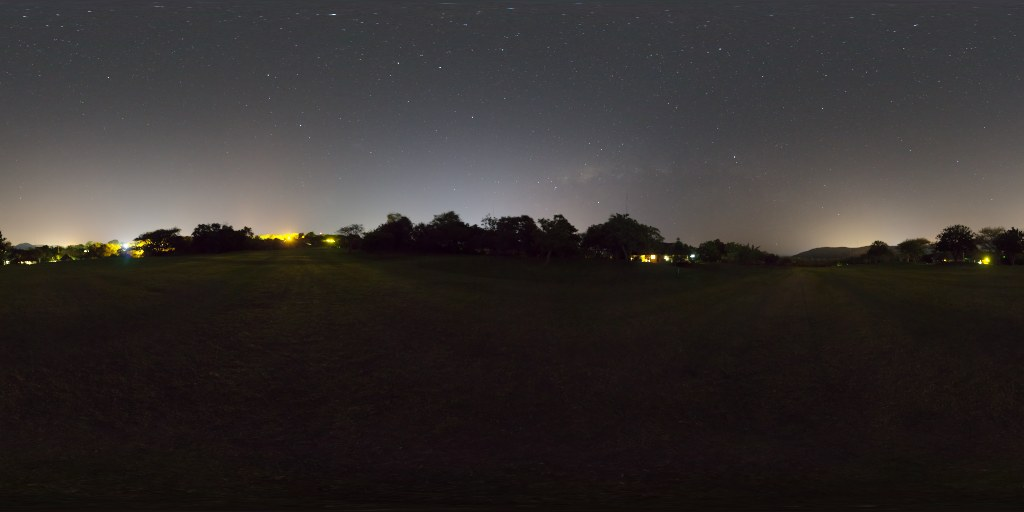
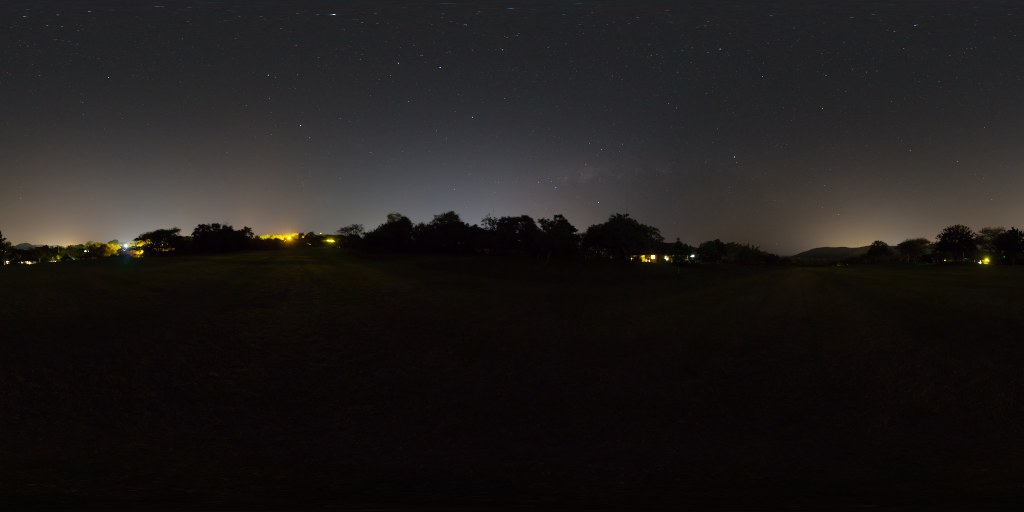
Real surroundings in every direction; view eases back on scroll after a drag
- business district around the HQ: glass office towers (lit windows at night), roads with lane markings, pavements, trees, street lamps, lawns; the photographic sky stays, the blurred ground is gone
- after a drag, scrolling turns the view back toward the planned direction gradually (~80% per stop scrolled), never snapping
- darker night sky

Claude-Session: https://claude.ai/code/session_01G3Y64rA4JQ17aTMdyHveiB

diff --git a/src/three/District.tsx b/src/three/District.tsx
@@ -1,0 +1,117 @@
+import React, { useEffect, useMemo } from 'react';
+import * as THREE from 'three';
+
+// The neighbourhood around the Oliskey HQ, so every direction a visitor looks shows something real instead of a blurred
+// background: a business district of glass office blocks (windows lit at night), roads with lane markings, pavements,
+// street lamps, trees and lawns. Built in code, lit by the same sky (environment map) as the rest of the scene.
+// Coordinates here are three.js (x right, y up, z = −Blender y). The HQ plaza covers x −45…45, z 0…48.
+
+type Mode = 'day' | 'night';
+const rnd = (() => { let s = 7; return () => ((s = (s * 16807) % 2147483647) / 2147483647); })();
+
+function facadeTexture(night: boolean) {
+  const c = document.createElement('canvas'); c.width = 256; c.height = 256;
+  const g = c.getContext('2d')!;
+  g.fillStyle = night ? '#1a2233' : '#c9d2dc'; g.fillRect(0, 0, 256, 256);          // mullions / spandrels
+  for (let y = 0; y < 4; y++) for (let x = 0; x < 4; x++) {
+    const lit = night && rnd() < 0.3;
+    g.fillStyle = night ? (lit ? (rnd() < 0.5 ? '#ffd9a0' : '#fff1d6') : '#0b1220') : (rnd() < 0.15 ? '#7f97b3' : '#93abc6');
+    g.fillRect(x * 64 + 5, y * 64 + 9, 54, 46);
+  }
+  const t = new THREE.CanvasTexture(c); t.colorSpace = THREE.SRGBColorSpace; t.wrapS = t.wrapT = THREE.RepeatWrapping; t.anisotropy = 4;
+  return t;
+}
+function roadTexture() {
+  const c = document.createElement('canvas'); c.width = 64; c.height = 256;
+  const g = c.getContext('2d')!;
+  g.fillStyle = '#3a3d42'; g.fillRect(0, 0, 64, 256);
+  for (let i = 0; i < 400; i++) { g.fillStyle = `rgba(255,255,255,${rnd() * 0.05})`; g.fillRect(rnd() * 64, rnd() * 256, 1.5, 1.5); }
+  g.fillStyle = '#e9e4cf'; g.fillRect(30, 0, 4, 128);                                    // dashed centre line
+  const t = new THREE.CanvasTexture(c); t.colorSpace = THREE.SRGBColorSpace; t.wrapS = t.wrapT = THREE.RepeatWrapping; t.anisotropy = 8;
+  return t;
+}
+
+const District: React.FC<{ mode: Mode; env: THREE.Texture | null; lite: boolean }> = ({ mode, env, lite }) => {
+  const night = mode === 'night';
+  const data = useMemo(() => {
+    // office blocks: a row across the front road, rows down both sides, a skyline behind
+    const blocks: { x: number; z: number; w: number; d: number; h: number }[] = [];
+    for (let x = -150; x <= 150; x += 26) blocks.push({ x: x + rnd() * 6, z: 92 + rnd() * 10, w: 16 + rnd() * 8, d: 18 + rnd() * 8, h: 14 + rnd() * 34 });
+    for (const side of [-1, 1]) for (let z = 50; z >= -150; z -= 28) blocks.push({ x: side * (92 + rnd() * 8), z: z + rnd() * 6, w: 18 + rnd() * 8, d: 18 + rnd() * 8, h: 12 + rnd() * 30 });
+    for (let x = -120; x <= 120; x += 30) blocks.push({ x: x + rnd() * 10, z: -200 - rnd() * 20, w: 20 + rnd() * 10, d: 20, h: 25 + rnd() * 40 });
+    const trees: [number, number, number][] = [];
+    for (let x = -140; x <= 140; x += 12) { trees.push([x + rnd() * 2, 66, 0.9 + rnd() * 0.4]); }
+    for (const side of [-1, 1]) for (let z = 40; z >= -140; z -= 12) trees.push([side * (70 + rnd() * 2), z, 0.9 + rnd() * 0.4]);
+    const lamps: [number, number][] = [];
+    for (let x = -140; x <= 140; x += 24) lamps.push([x, 73]);
+    for (const side of [-1, 1]) for (let z = 50; z >= -140; z -= 24) lamps.push([side * 76, z]);
+    return { blocks: lite ? blocks.filter((_, i) => i % 2 === 0) : blocks, trees: lite ? trees.filter((_, i) => i % 2 === 0) : trees, lamps };
+  }, [lite]);
+
+  const mats = useMemo(() => {
+    const facade = facadeTexture(night);
+    const road = roadTexture();
+    return {
+      facade,
+      building: new THREE.MeshStandardMaterial({ map: facade, color: new THREE.Color(night ? 0.5 : 0.82, night ? 0.5 : 0.84, night ? 0.5 : 0.88), roughness: 0.35, metalness: 0.15, emissive: new THREE.Color(night ? 0xffffff : 0x000000), emissiveMap: night ? facade : null, emissiveIntensity: night ? 0.16 : 0 }),
+      roof: new THREE.MeshStandardMaterial({ color: night ? 0x1c222d : 0x8c939c, roughness: 0.9 }),
+      road: new THREE.MeshStandardMaterial({ map: road, roughness: 0.85 }),
+      walk: new THREE.MeshStandardMaterial({ color: night ? 0x5a5d62 : 0xbdbab3, roughness: 0.9 }),
+      grass: new THREE.MeshStandardMaterial({ color: night ? 0x1d2b1a : 0x5f8a3e, roughness: 1 }),
+      trunk: new THREE.MeshStandardMaterial({ color: 0x4e3b2a, roughness: 1 }),
+      leaf: new THREE.MeshStandardMaterial({ color: night ? 0x1f3a1c : 0x3f6d2c, roughness: 0.95, flatShading: true }),
+      pole: new THREE.MeshStandardMaterial({ color: 0x30343a, roughness: 0.4, metalness: 0.7 }),
+      bulb: new THREE.MeshBasicMaterial({ color: night ? new THREE.Color(3, 2.6, 2) : new THREE.Color(0.9, 0.9, 0.85), toneMapped: !night }),
+    };
+  }, [night]);
+  useEffect(() => {
+    for (const m of [mats.building, mats.roof, mats.road, mats.walk, mats.grass, mats.trunk, mats.leaf, mats.pole]) { m.envMap = env; m.envMapIntensity = night ? 0.15 : 0.75; m.needsUpdate = true; }
+    return () => { Object.values(mats).forEach((m) => (m as THREE.Material).dispose?.()); };
+  }, [mats, env, night]);
+
+  const geo = useMemo(() => ({ box: new THREE.BoxGeometry(1, 1, 1), leaf: new THREE.IcosahedronGeometry(1, 1), trunk: new THREE.CylinderGeometry(0.12, 0.18, 1, 8), pole: new THREE.CylinderGeometry(0.07, 0.09, 1, 8) }), []);
+  const roadMesh = (w: number, l: number, pos: [number, number, number], rotY = 0, key: string) => {
+    const g = new THREE.PlaneGeometry(w, l); const uv = g.attributes.uv as THREE.BufferAttribute;
+    for (let i = 0; i < uv.count; i++) uv.setXY(i, uv.getX(i), uv.getY(i) * l / 12);   // one dash every 12 m
+    return <mesh key={key} geometry={g} material={mats.road} rotation={[-Math.PI / 2, 0, rotY]} position={pos} />;
+  };
+
+  return (
+    <group>
+      {/* lawns and pavements around the plaza, roads around the block */}
+      <mesh material={mats.grass} rotation-x={-Math.PI / 2} position={[0, -0.06, 0]}><planeGeometry args={[700, 700]} /></mesh>
+      <mesh material={mats.walk} rotation-x={-Math.PI / 2} position={[0, -0.03, 64]}><planeGeometry args={[310, 6]} /></mesh>
+      {roadMesh(12, 320, [0, -0.02, 73], Math.PI / 2, 'front')}
+      {roadMesh(12, 220, [-82, -0.02, -40], 0, 'left')}
+      {roadMesh(12, 220, [82, -0.02, -40], 0, 'right')}
+      {/* office blocks */}
+      {data.blocks.map((b, i) => {
+        const t = mats.facade.clone(); t.repeat.set(Math.round(b.w / 3.2), Math.round(b.h / 3.6)); t.needsUpdate = true;
+        const m = mats.building.clone(); m.map = t; if (night) m.emissiveMap = t;
+        return (
+          <group key={i} position={[b.x, 0, b.z]}>
+            <mesh geometry={geo.box} material={m} position={[0, b.h / 2, 0]} scale={[b.w, b.h, b.d]} />
+            <mesh geometry={geo.box} material={mats.roof} position={[0, b.h + 0.3, 0]} scale={[b.w + 0.4, 0.6, b.d + 0.4]} />
+          </group>
+        );
+      })}
+      {/* trees along the roads */}
+      {data.trees.map(([x, z, s], i) => (
+        <group key={`t${i}`} position={[x, 0, z]} scale={s}>
+          <mesh geometry={geo.trunk} material={mats.trunk} position={[0, 1.6, 0]} scale={[1, 3.2, 1]} />
+          <mesh geometry={geo.leaf} material={mats.leaf} position={[0, 4.2, 0]} scale={[2.2, 1.8, 2.2]} />
+          <mesh geometry={geo.leaf} material={mats.leaf} position={[0.9, 3.6, 0.4]} scale={1.4} />
+          <mesh geometry={geo.leaf} material={mats.leaf} position={[-0.8, 3.8, -0.5]} scale={1.5} />
+        </group>
+      ))}
+      {/* street lamps */}
+      {data.lamps.map(([x, z], i) => (
+        <group key={`l${i}`} position={[x, 0, z]}>
+          <mesh geometry={geo.pole} material={mats.pole} position={[0, 3.5, 0]} scale={[1, 7, 1]} />
+          <mesh geometry={geo.box} material={mats.bulb} position={[0, 7.05, 0]} scale={[0.9, 0.12, 0.35]} />
+        </group>
+      ))}
+    </group>
+  );
+};
+export default District;

diff --git a/src/three/World.tsx b/src/three/World.tsx
@@ -6,6 +6,7 @@ import { RoomEnvironment } from 'three/examples/jsm/environments/RoomEnvironment
 import { RGBELoader } from 'three/examples/jsm/loaders/RGBELoader.js';
 import { GroundedSkybox } from 'three/examples/jsm/objects/GroundedSkybox.js';
 import propsJson from './props.json';
+import District from './District';
 import scales from './lightmaps.json';
 import type { Stop, Zone } from './stops';
 
@@ -207,7 +208,7 @@ const ZoneModel: React.FC<{ zone: Zone; mode: Mode; phone: boolean; hover: strin
 
 /** Surroundings: the same photographic HDRI used for lighting in Blender, projected onto a ground dome so the horizon,
  *  trees and sky sit at a believable distance (a park by day, a starlit sky with town glow at night). */
-const Surroundings: React.FC<{ mode: Mode }> = ({ mode }) => {
+const Surroundings: React.FC<{ mode: Mode; lite: boolean; envVer: number }> = ({ mode, lite }) => {
   const { scene, gl } = useThree();
   const [bg, setBg] = useState<THREE.Texture | null>(null);
   useEffect(() => {
@@ -224,14 +225,15 @@ const Surroundings: React.FC<{ mode: Mode }> = ({ mode }) => {
   }, [mode, scene, gl]);
   const sky = useMemo(() => {
     if (!bg) return null;
-    const m = new GroundedSkybox(bg, 18, 420);
-    m.position.y = 18 - 0.25; m.rotation.y = SKY_ROT;
+    const m = new GroundedSkybox(bg, 60, 600);
+    m.position.y = 60 - 0.5; m.rotation.y = SKY_ROT;
     (m.material as THREE.MeshBasicMaterial).toneMapped = false;
     return m;
   }, [bg]);
   useEffect(() => () => { sky?.geometry.dispose(); (sky?.material as THREE.Material | undefined)?.dispose(); bg?.dispose(); }, [sky, bg]);
-  return sky ? <primitive object={sky} /> : null;
+  return <>{sky && <primitive object={sky} />}<District mode={mode} env={ENV[mode]} lite={lite} /></>;
 };
+const DEBUG = new URLSearchParams(location.search).has('debug');
 const SKY_ROT = Number(new URLSearchParams(location.search).get('skyrot') || 0) * (Math.PI / 180);
 
 /** Closed walls at the ends of a world (navy feature walls with the Oliskey mark), so a world never looks into another one. */
@@ -330,7 +332,7 @@ const Props: React.FC<{ zones: readonly Zone[]; mode: Mode }> = ({ zones, mode }
  *  `cut` ends its run, and the move to the next run is a cinematic cut: the camera pushes in, the frame fades, and it opens
  *  inside the next space — so choosing a world takes you straight there instead of walking through other worlds.
  *  Motion is a critically-damped spring (weighted start and stop, like a real camera move) with a slight hand-held sway. */
-const Rig: React.FC<{ stops: Stop[]; progress: React.MutableRefObject<number>; phone: boolean; snap?: boolean; look: React.MutableRefObject<{ x: number; y: number }>; fade?: React.RefObject<HTMLDivElement> }> = ({ stops, progress, phone, snap, look, fade }) => {
+const Rig: React.FC<{ stops: Stop[]; progress: React.MutableRefObject<number>; phone: boolean; snap?: boolean; look: React.MutableRefObject<{ x: number; y: number }>; aim: React.MutableRefObject<{ x: number; y: number }>; fade?: React.RefObject<HTMLDivElement> }> = ({ stops, progress, phone, snap, look, aim, fade }) => {
   const { camera, size } = useThree();
   const plan = useMemo(() => {
     const shot = (s: Stop) => (phone && s.phone) || s.desk;
@@ -376,12 +378,17 @@ const Rig: React.FC<{ stops: Stop[]; progress: React.MutableRefObject<number>; p
     const last = plan.real.length - 1;
     const goal = Math.max(0, Math.min(last, progress.current));
     const S = st.current;
+    const before = S.s;
     if (snap) { S.s = goal; S.v = 0; } else {
       const w = 5.2;                                   // spring stiffness: settles in ~0.8 s
       S.v += (w * w * (goal - S.s) - 2 * w * S.v) * dt;
       S.s += S.v * dt;
     }
     S.t += dt;
+    // after a drag, scrolling eases the view back toward the planned direction: about 80% recovered per stop scrolled
+    const back = Math.exp(-1.6 * Math.abs(S.s - before));
+    aim.current.x *= back; aim.current.y *= back;
+    if (DEBUG) (window as unknown as { __rig: unknown }).__rig = { s: S.s, goal, aim: { ...aim.current }, look: { ...look.current } };
     const s = Math.max(0, Math.min(last, S.s));
     const i = Math.min(Math.max(0, last - 1), Math.floor(s)), f = s - i;
     const r0 = plan.real[i], r1 = plan.real[Math.min(i + 1, last)];
@@ -426,7 +433,8 @@ const Rig: React.FC<{ stops: Stop[]; progress: React.MutableRefObject<number>; p
 
 const Env: React.FC<{ mode: Mode; onEnv: () => void }> = ({ mode, onEnv }) => {
   const { gl, scene } = useThree();
-  if (new URLSearchParams(location.search).has('debug')) (window as unknown as { __scene: THREE.Scene }).__scene = scene;
+  const { camera: dbgCam } = useThree();
+  if (new URLSearchParams(location.search).has('debug')) { (window as unknown as { __scene: THREE.Scene }).__scene = scene; (window as unknown as { __camera: THREE.Camera }).__camera = dbgCam; }
   useEffect(() => {
     if (ENV[mode]) { onEnv(); return; }
     const pm = new THREE.PMREMGenerator(gl);
@@ -503,7 +511,7 @@ const World: React.FC<WorldProps> = ({ zones, stops, progress, mode, phone, acti
     >
       <PerformanceMonitor onDecline={() => setDpr((d) => Math.max(1, d - 0.25))} />
       <Env mode={mode} onEnv={onEnv} />
-      <Surroundings mode={mode} />
+      <Surroundings mode={mode} lite={phone} envVer={envVer} />
       {!phone && <Props zones={zones} mode={mode} key={`props-${envVer}`} />}
       {zones.includes('hq') && <Doors mode={mode} key={`doors-${envVer}`} />}
       <Seals zones={zones} mode={mode} key={`seals-${envVer}`} />
@@ -517,7 +525,7 @@ const World: React.FC<WorldProps> = ({ zones, stops, progress, mode, phone, acti
         ))}
       </group>
       {!phone && !new URLSearchParams(location.search).has('nofx') && <Suspense fallback={null}><Effects night={mode === 'night'} /></Suspense>}
-      <Rig stops={stops} progress={progress} phone={phone} snap={snap} look={look} fade={fade} />
+      <Rig stops={stops} progress={progress} phone={phone} snap={snap} look={look} aim={target} fade={fade} />
       {litOnce && <Ready onReady={onReady} />}
     </Canvas>
   );
